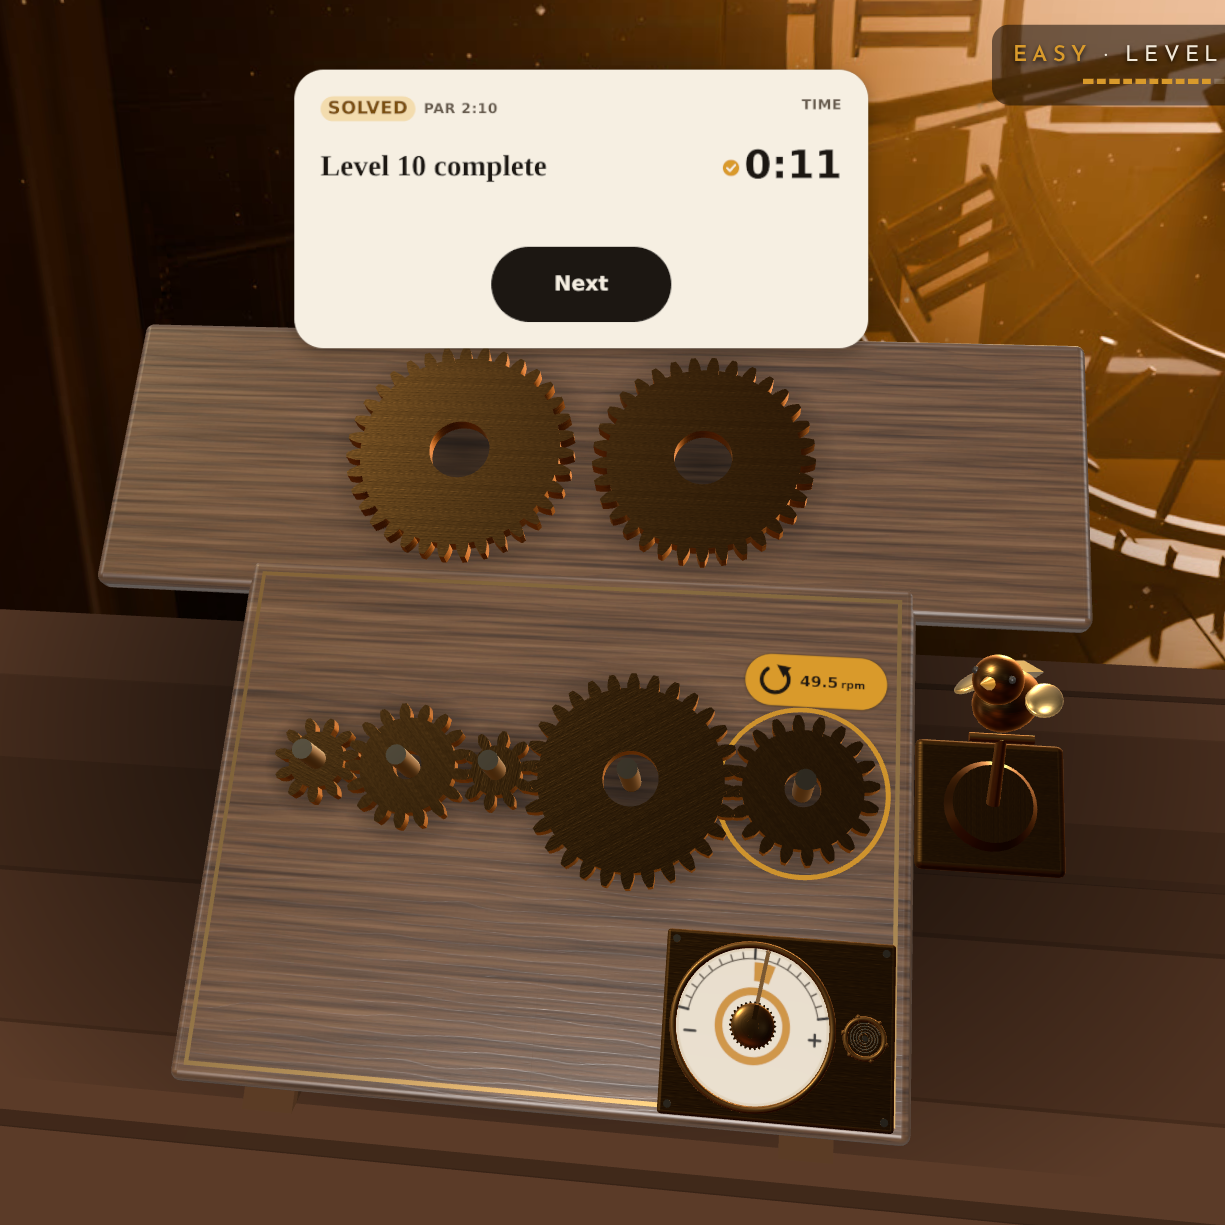
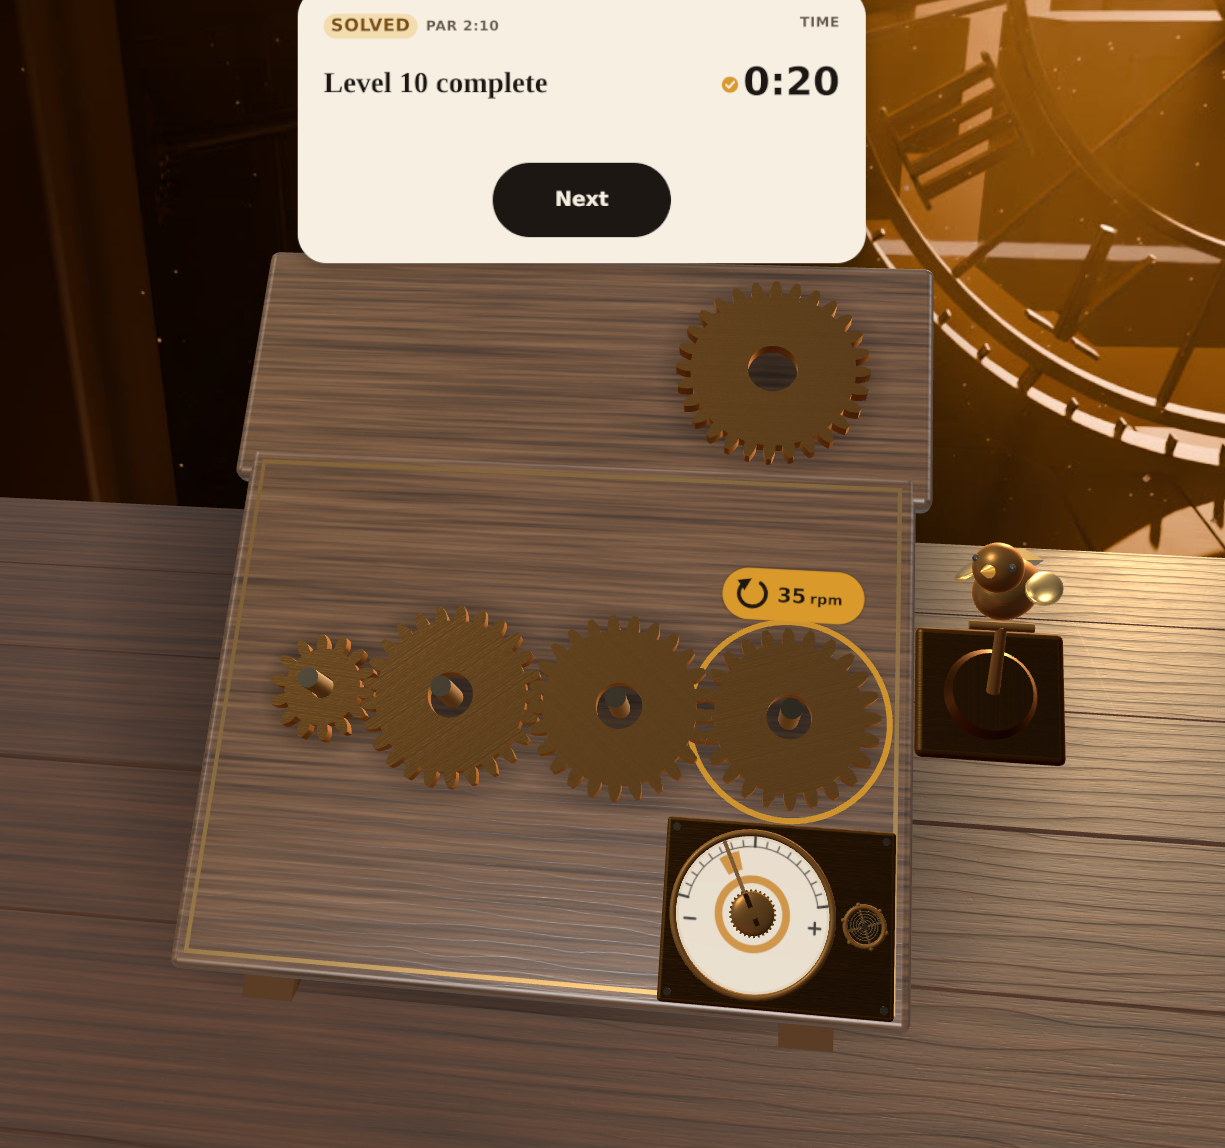
readme shots keep the lit bench, crop under the header

diff --git a/src/main.ts b/src/main.ts
@@ -1736,11 +1736,6 @@ window.__chrono = Object.freeze({
     const { calls, triangles } = world.renderer.info.render;
     return { calls, triangles };
   },
-  get metals() {
-    const g = built.gears.values().next().value!.material as MeshStandardMaterial;
-    return { metalness: g.metalness, roughness: g.roughness, roughnessMap: !!g.roughnessMap, normalMap: !!g.normalMap, environment: g.envMap !== null, intensity: g.envMapIntensity };
-  },
-  get trayWood() {
   /** Every gear's centre and its width on screen in CSS pixels, for the test that samples how bright the brass renders. */
   get gearScreens() {
     return [...built.gears].map(([id, m]) => {
@@ -1757,6 +1752,11 @@ window.__chrono = Object.freeze({
   },
   get scenery() {
     return { ...scenery.state(), clearAlpha: world.renderer.getClearAlpha() };
+  get metals() {
+    const g = built.gears.values().next().value!.material as MeshStandardMaterial;
+    return { metalness: g.metalness, roughness: g.roughness, roughnessMap: !!g.roughnessMap, normalMap: !!g.normalMap, environment: g.envMap !== null, intensity: g.envMapIntensity };
+  },
+  get trayWood() {
   },
   get automatonRunning() {
     return regulator.calibrated;

diff --git a/tests/shots/readme.spec.ts b/tests/shots/readme.spec.ts
@@ -6,7 +6,7 @@ import { calibrateByMouse } from '../e2e/calibrate';
 // The README screenshots, at full resolution (?shots keeps the pixel ratio up on software GL). Run with `bun run screenshots`.
 const OUT = 'docs';
 /** The tray, its card and the bird, with a margin of the dark room round them (CSS px of the 1280 x 720 view). */
-const CLIP = { x: 305, y: 0, width: 700, height: 700 };
+const CLIP = { x: 305, y: 64, width: 700, height: 700 };
 
 async function click(page: Page, id: string) {
   await page.waitForFunction((b) => window.__chrono!.buttons().some((x) => x.id === b), id);
